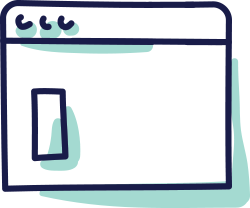
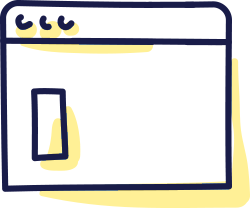
Rebrand to Veralba Solar and add Meta Pixel with Lead tracking
Branding:
- Replace the teal accent with brand yellow (#ffe600) via the CSS tokens,
  with a dark gold (#6b5800) for links on white to keep WCAG AA contrast
- Replace the Solar Selector logo and favicon with a Veralba Solar inline
  SVG wordmark (white "Veralba", yellow "Solar") and a sun icon
- Recolour the pale-teal fills in all survey and benefit icons to pale yellow
- Route every brand mention through site.name and rename the benefits
  component to WhyUseUs; contact email and legal links are placeholders
  in lib/site.ts pending confirmation

Tracking:
- Load the Meta Pixel (ID in lib/site.ts) from the root layout with the
  standard PageView and a noscript fallback
- Fire the standard Lead event once when the survey reaches the success step
- Add tests for the Lead event and the pixel helper; update the README

Claude-Session: https://claude.ai/code/session_019LKyaF6qoussHrFcBtp4i9

Changed region(s): [[0.14, 0.2596, 1.0, 1.0], [0.056, 0.0865, 0.616, 0.2596], [0.14, 0.4904, 0.336, 0.8365]]

diff --git a/tests/page.test.tsx b/tests/page.test.tsx
@@ -3,7 +3,8 @@ import userEvent from "@testing-library/user-event";
 import type { ImgHTMLAttributes } from "react";
 import { beforeEach, describe, expect, it, vi } from "vitest";
 import { Survey, AUTO_ADVANCE_DELAY_MS } from "@/components/survey/Survey";
-import { WhyUseSolarSelector } from "@/components/WhyUseSolarSelector";
+import { WhyUseUs } from "@/components/WhyUseUs";
+import { trackPixelEvent } from "@/lib/pixel";
 
 vi.mock("next/image", () => ({
   default: (props: ImgHTMLAttributes<HTMLImageElement> & { priority?: boolean }) => {
@@ -95,7 +96,7 @@ describe("Survey", () => {
     await user().type(screen.getByLabelText("Postcode"), "4000{Enter}");
     await choose("Rent");
 
-    expect(heading()).toHaveTextContent("I'm sorry, currently Solar Selector can only assist homeowners.");
+    expect(heading()).toHaveTextContent("I'm sorry, currently Veralba Solar can only assist homeowners.");
     expect(screen.getByRole("link", { name: /Energy Made Easy/ })).toHaveAttribute("target", "_blank");
     expect(screen.queryByRole("button", { name: "Next" })).not.toBeInTheDocument();
     expect(screen.queryByRole("textbox")).not.toBeInTheDocument();
@@ -188,24 +189,53 @@ describe("Survey", () => {
 
   it("completes the no-solar path without the existing system questions", async () => {
     const fetchSpy = vi.spyOn(globalThis, "fetch");
-    render(<Survey />);
-    await completeToContact("No");
-    await user().type(screen.getByLabelText("Best email address"), "alex@example.com");
-    await user().type(screen.getByLabelText("Mobile phone number"), "0412 345 678{Enter}");
-    expect(progressValue()).toBe(91);
-    await user().type(screen.getByLabelText("6-digit verification code"), "123456{Enter}");
+    const fbq = vi.fn();
+    window.fbq = fbq;
+    try {
+      render(<Survey />);
+      await completeToContact("No");
+      await user().type(screen.getByLabelText("Best email address"), "alex@example.com");
+      await user().type(screen.getByLabelText("Mobile phone number"), "0412 345 678{Enter}");
+      expect(progressValue()).toBe(91);
+      expect(fbq).not.toHaveBeenCalled();
+      await user().type(screen.getByLabelText("6-digit verification code"), "123456{Enter}");
 
-    expect(heading()).toHaveTextContent("Your eligibility request is ready.");
-    expect(screen.queryByText("Existing system age")).not.toBeInTheDocument();
-    expect(screen.queryByText("Reason for enquiry")).not.toBeInTheDocument();
-    expect(fetchSpy).not.toHaveBeenCalled();
+      expect(heading()).toHaveTextContent("Your eligibility request is ready.");
+      expect(screen.queryByText("Existing system age")).not.toBeInTheDocument();
+      expect(screen.queryByText("Reason for enquiry")).not.toBeInTheDocument();
+      expect(fetchSpy).not.toHaveBeenCalled();
+
+      // The Meta Pixel Lead event fires exactly once when the survey is completed.
+      expect(fbq).toHaveBeenCalledTimes(1);
+      expect(fbq).toHaveBeenCalledWith("track", "Lead", undefined);
+    } finally {
+      delete window.fbq;
+    }
+  });
+});
+
+describe("Meta Pixel helper", () => {
+  it("is a no-op when the pixel has not loaded", () => {
+    delete window.fbq;
+    expect(trackPixelEvent("Lead")).toBe(false);
+  });
+
+  it("forwards events to fbq when it is available", () => {
+    const fbq = vi.fn();
+    window.fbq = fbq;
+    try {
+      expect(trackPixelEvent("Lead", { content_name: "solar-eligibility" })).toBe(true);
+      expect(fbq).toHaveBeenCalledWith("track", "Lead", { content_name: "solar-eligibility" });
+    } finally {
+      delete window.fbq;
+    }
   });
 });
 
 describe("No Net Cost Solar modal", () => {
   it("opens from More, traps focus, and closes with Escape", async () => {
     const user = userEvent.setup();
-    render(<WhyUseSolarSelector />);
+    render(<WhyUseUs />);
     const more = screen.getByRole("button", { name: "More about No Net Cost Solar" });
 
     await user.click(more);
@@ -227,7 +257,7 @@ describe("No Net Cost Solar modal", () => {
 
   it("closes from the Close button", async () => {
     const user = userEvent.setup();
-    render(<WhyUseSolarSelector />);
+    render(<WhyUseUs />);
     await user.click(screen.getByRole("button", { name: "More about No Net Cost Solar" }));
     await user.click(screen.getByRole("button", { name: "Close" }));
     expect(screen.queryByRole("dialog")).not.toBeInTheDocument();

diff --git a/components/SiteFooter.tsx b/components/SiteFooter.tsx
@@ -1,4 +1,4 @@
-import Image from "next/image";
+import { BrandLogo } from "./BrandLogo";
 import { site } from "@/lib/site";
 import styles from "./SiteFooter.module.css";
 
@@ -8,17 +8,10 @@ export function SiteFooter() {
       <div className="container">
         <div className={styles.top}>
           <div className={styles.brand}>
-            <Image
-              className={styles.logo}
-              src="/assets/solar-selector-logo.png"
-              alt="Solar Selector"
-              width={1000}
-              height={291}
-              sizes="220px"
-            />
+            <BrandLogo className={styles.logo} />
           </div>
           <p className={styles.about}>
-            Solar Selector helps you find a great solar installer by matching homeowners with vetted,
+            {site.name} helps you find a great solar installer by matching homeowners with vetted,
             industry-recognised solar experts.
           </p>
           <div className={styles.contact}>
@@ -35,7 +28,7 @@ export function SiteFooter() {
         <div className={styles.disclaimer}>
           <p>*Based on the installation of a 13.2kW solar system for a Australian home in a CER Zone 1 postcode.</p>
           <p>
-            Solar Selector operates as a referral service for solar and battery solutions, partnering with solar
+            {site.name} operates as a referral service for solar and battery solutions, partnering with solar
             companies to offer guidance on selecting the right solar products for your needs. The content provided
             on this website serves solely for informational purposes and should not be considered as professional
             advice. By accessing our website, you agree to our{" "}
@@ -51,7 +44,7 @@ export function SiteFooter() {
         </div>
 
         <div className={styles.bottom}>
-          <p>© Copyright Solar Selector {site.copyrightYear} · All Rights Reserved</p>
+          <p>© Copyright {site.name} {site.copyrightYear} · All Rights Reserved</p>
           <p className={styles.legalLinks}>
             <a href={site.privacyPolicyUrl} target="_blank" rel="noopener noreferrer">
               Privacy Policy

diff --git a/components/survey/SuccessMessage.tsx b/components/survey/SuccessMessage.tsx
@@ -1,3 +1,4 @@
+import { site } from "@/lib/site";
 import { formatMobile, getActiveAnswers, type Answers } from "@/lib/survey";
 import styles from "./Survey.module.css";
 
@@ -35,7 +36,7 @@ export function SuccessMessage({ answers, onRestart }: SuccessMessageProps) {
   return (
     <div className={`${styles.message} ${styles.success}`}>
       <svg className={styles.successIcon} viewBox="0 0 64 64" aria-hidden="true" focusable="false">
-        <circle cx="32" cy="32" r="30" fill="#1ae2c2" />
+        <circle cx="32" cy="32" r="30" fill="#ffe600" />
         <path d="M19 33.5 28 42l17-19" fill="none" stroke="#000033" strokeWidth="5" strokeLinecap="round" strokeLinejoin="round" />
       </svg>
       <p className={styles.demoBadge}>Demo complete · Nothing was submitted</p>
@@ -60,7 +61,7 @@ export function SuccessMessage({ answers, onRestart }: SuccessMessageProps) {
       </div>
 
       <p className={styles.privacyNote}>
-        Your details stayed in this browser tab. They have not been sent to Solar Selector, installers or any other
+        Your details stayed in this browser tab. They have not been sent to {site.name}, installers or any other
         service, and they are cleared when you refresh or leave the page.
       </p>
 

diff --git a/components/MetaPixel.tsx b/components/MetaPixel.tsx
@@ -1,0 +1,38 @@
+import Script from "next/script";
+import { site } from "@/lib/site";
+
+/**
+ * Meta Pixel base code. Loads after hydration and fires the standard PageView.
+ * Rendered once in the root layout; disabled when no pixel ID is configured.
+ */
+export function MetaPixel() {
+  const pixelId = site.metaPixelId;
+  if (!pixelId) return null;
+
+  return (
+    <>
+      <Script id="meta-pixel" strategy="afterInteractive">
+        {`!function(f,b,e,v,n,t,s)
+{if(f.fbq)return;n=f.fbq=function(){n.callMethod?
+n.callMethod.apply(n,arguments):n.queue.push(arguments)};
+if(!f._fbq)f._fbq=n;n.push=n;n.loaded=!0;n.version='2.0';
+n.queue=[];t=b.createElement(e);t.async=!0;
+t.src=v;s=b.getElementsByTagName(e)[0];
+s.parentNode.insertBefore(t,s)}(window, document,'script',
+'https://connect.facebook.net/en_US/fbevents.js');
+fbq('init', '${pixelId}');
+fbq('track', 'PageView');`}
+      </Script>
+      <noscript>
+        {/* eslint-disable-next-line @next/next/no-img-element */}
+        <img
+          height="1"
+          width="1"
+          style={{ display: "none" }}
+          alt=""
+          src={`https://www.facebook.com/tr?id=${pixelId}&ev=PageView&noscript=1`}
+        />
+      </noscript>
+    </>
+  );
+}

diff --git a/components/survey/VerifyStep.tsx b/components/survey/VerifyStep.tsx
@@ -59,7 +59,7 @@ export function VerifyStep({ mobile, code, error, inputId, onChange }: VerifySte
       </button>
 
       <p className={styles.consent}>
-        By clicking the above I understand and accept Solar Selector&apos;s{" "}
+        By clicking the above I understand and accept {site.name}&apos;s{" "}
         <a href={site.privacyPolicyUrl} target="_blank" rel="noopener noreferrer">
           Privacy Policy
         </a>{" "}
@@ -67,7 +67,7 @@ export function VerifyStep({ mobile, code, error, inputId, onChange }: VerifySte
         <a href={site.termsUrl} target="_blank" rel="noopener noreferrer">
           Terms of Use
         </a>
-        . You provide consent for Solar Selector or one of our partners to contact you to discuss your options for
+        . You provide consent for {site.name} or one of our partners to contact you to discuss your options for
         solar and/or battery storage. We may receive a fee from our partners when you choose to use our service.
       </p>
     </div>

diff --git a/app/layout.tsx b/app/layout.tsx
@@ -1,6 +1,8 @@
 import type { Metadata, Viewport } from "next";
 import { Poppins } from "next/font/google";
 import "./globals.css";
+import { MetaPixel } from "@/components/MetaPixel";
+import { site } from "@/lib/site";
 
 const poppins = Poppins({
   subsets: ["latin"],
@@ -10,7 +12,7 @@ const poppins = Poppins({
 });
 
 export const metadata: Metadata = {
-  title: "Apply Now | Solar Selector",
+  title: `Apply Now | ${site.name}`,
   description:
     "Check your eligibility for Government solar incentives and No-Net-Cost Solar in less than 60 seconds.",
   robots: { index: false, follow: false },
@@ -25,7 +27,10 @@ export const viewport: Viewport = {
 export default function RootLayout({ children }: Readonly<{ children: React.ReactNode }>) {
   return (
     <html lang="en-AU" className={poppins.variable}>
-      <body>{children}</body>
+      <body>
+        {children}
+        <MetaPixel />
+      </body>
     </html>
   );
 }

diff --git a/components/BrandLogo.tsx b/components/BrandLogo.tsx
@@ -1,0 +1,36 @@
+import { site } from "@/lib/site";
+
+interface BrandLogoProps {
+  className?: string;
+}
+
+/**
+ * Wordmark rendered as inline SVG so it uses the page's Poppins font and stays crisp at any size.
+ * "Veralba" is white and "Solar" is brand yellow, designed for the navy header and footer.
+ */
+export function BrandLogo({ className }: BrandLogoProps) {
+  return (
+    <svg
+      className={className}
+      viewBox="0 0 780 120"
+      role="img"
+      aria-label={site.name}
+      focusable="false"
+    >
+      <text
+        x="0"
+        y="88"
+        fontFamily="var(--font-sans)"
+        fontWeight="700"
+        fontSize="96"
+        letterSpacing="-2"
+        fill="#ffffff"
+      >
+        Veralba
+        <tspan fill="var(--color-accent)" dx="22">
+          Solar
+        </tspan>
+      </text>
+    </svg>
+  );
+}

diff --git a/lib/site.ts b/lib/site.ts
@@ -1,9 +1,12 @@
 /** Public site links and copy shared across the page. Update these per deployment. */
 export const site = {
-  name: "Solar Selector",
-  contactEmail: "save@solarselector.com.au",
-  privacyPolicyUrl: "https://solarselector.com.au/privacy-policy/",
-  termsUrl: "https://solarselector.com.au/terms/",
+  name: "Veralba Solar",
+  // TODO: confirm the public contact address, Privacy Policy and Terms of Use URLs for Veralba.
+  contactEmail: "info@veralbaenergy.com.au",
+  privacyPolicyUrl: "/privacy-policy/",
+  termsUrl: "/terms/",
   energyAssistanceUrl: "https://www.energymadeeasy.gov.au/",
   copyrightYear: 2026,
+  /** Meta (Facebook) Pixel ID. Leave empty to disable the pixel. */
+  metaPixelId: "1696962574546745",
 } as const;

diff --git a/lib/pixel.ts b/lib/pixel.ts
@@ -1,0 +1,22 @@
+/** Thin wrapper around the Meta Pixel (`fbq`) so components never touch the global directly. */
+
+type Fbq = (...args: unknown[]) => void;
+
+declare global {
+  interface Window {
+    fbq?: Fbq;
+  }
+}
+
+/** Standard Meta Pixel events used on this page. */
+export type PixelEvent = "Lead";
+
+/**
+ * Fire a standard Meta Pixel event. Safe to call when the pixel has not loaded
+ * (ad blockers, pixel disabled, server render): it becomes a no-op.
+ */
+export function trackPixelEvent(event: PixelEvent, params?: Record<string, string | number>): boolean {
+  if (typeof window === "undefined" || typeof window.fbq !== "function") return false;
+  window.fbq("track", event, params);
+  return true;
+}

diff --git a/components/survey/Survey.tsx b/components/survey/Survey.tsx
@@ -15,6 +15,7 @@ import {
   type FieldErrors,
   type StepId,
 } from "@/lib/survey";
+import { trackPixelEvent } from "@/lib/pixel";
 import { ChoiceQuestion } from "./ChoiceQuestion";
 import { FieldQuestion } from "./FieldQuestion";
 import { RenterMessage } from "./RenterMessage";
@@ -117,6 +118,11 @@ export function Survey() {
         section.scrollIntoView({ block: "start", behavior: reduceMotion ? "auto" : "smooth" });
       }
     }
+  }, [step]);
+
+  // Report a completed survey to the Meta Pixel as a standard Lead event.
+  useEffect(() => {
+    if (step === "success") trackPixelEvent("Lead");
   }, [step]);
 
   // Focus the first invalid control after validation errors render.

diff --git a/components/WhyUseUs.tsx b/components/WhyUseUs.tsx
@@ -2,17 +2,18 @@
 
 import Image from "next/image";
 import { useState } from "react";
+import { site } from "@/lib/site";
 import { Modal } from "./Modal";
-import styles from "./WhyUseSolarSelector.module.css";
+import styles from "./WhyUseUs.module.css";
 
-export function WhyUseSolarSelector() {
+export function WhyUseUs() {
   const [isModalOpen, setModalOpen] = useState(false);
 
   return (
     <section className={styles.section} aria-labelledby="why-heading">
       <div className="container">
         <h2 id="why-heading" className={styles.heading}>
-          Why Use Solar Selector?
+          Why Use {site.name}?
         </h2>
 
         <div className={styles.grid}>

diff --git a/components/SiteHeader.tsx b/components/SiteHeader.tsx
@@ -1,19 +1,12 @@
 import Image from "next/image";
+import { BrandLogo } from "./BrandLogo";
 import styles from "./SiteHeader.module.css";
 
 export function SiteHeader() {
   return (
     <header className={styles.header}>
       <div className={`container ${styles.inner}`}>
-        <Image
-          className={styles.logo}
-          src="/assets/solar-selector-logo.png"
-          alt="Solar Selector"
-          width={1000}
-          height={291}
-          priority
-          sizes="155px"
-        />
+        <BrandLogo className={styles.logo} />
         <Image
           className={styles.badge}
           src="/assets/secure-ssl-badge.png"
